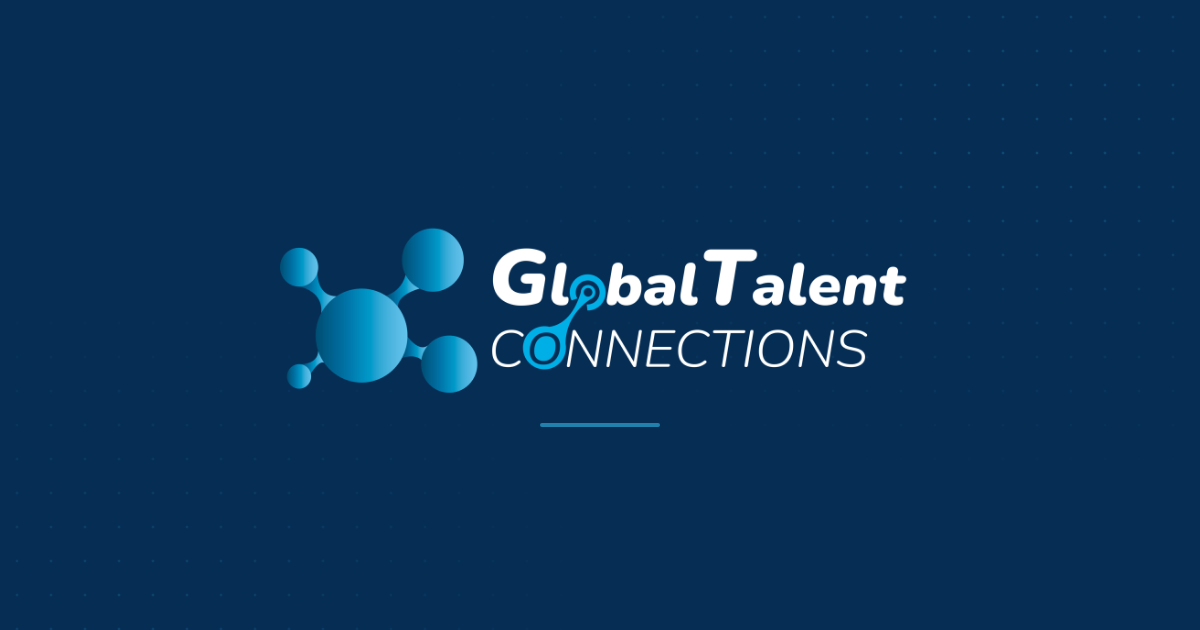
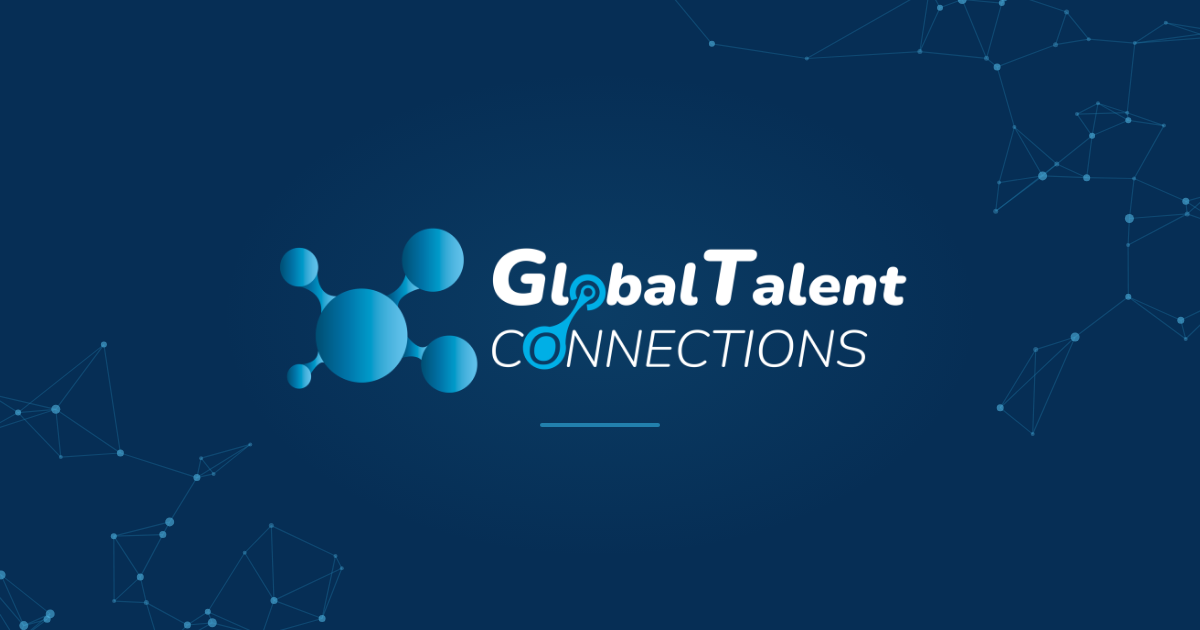
feat(web): share image gets a soft network detail in the background (#111)
Larisa (20-nov): «ponele algo en el fondito». Same logo on navy, plus a
soft celeste network in two corners (the style of the old image and of
the logo), clean center, no text. ?v=2 so cached previews refresh.

diff --git a/index.html b/index.html
@@ -38,7 +38,7 @@
   <meta property="og:url" content="https://www.globaltalent-connections.com/" />
   <meta property="og:title" content="Global Talent Connections | Servicio de soporte remoto gestionado para empresas" />
   <meta property="og:description" content="Servicios de soporte para empresas en 11 áreas, prestados por un equipo de profesionales en Latinoamérica y coordinados por GTC. Una factura mensual, calidad y continuidad garantizadas." />
-  <meta property="og:image" content="https://www.globaltalent-connections.com/og-gtc.jpg" />
+  <meta property="og:image" content="https://www.globaltalent-connections.com/og-gtc.jpg?v=2" />
   <meta property="og:image:width" content="1200" />
   <meta property="og:image:height" content="630" />
   <meta property="og:locale" content="es_ES" />
@@ -46,7 +46,7 @@
   <meta name="twitter:card" content="summary_large_image" />
   <meta name="twitter:title" content="Global Talent Connections | Servicio de soporte remoto gestionado para empresas" />
   <meta name="twitter:description" content="Servicios de soporte para empresas en 11 áreas, prestados por un equipo de profesionales en Latinoamérica y coordinados por GTC. Una factura mensual, calidad y continuidad garantizadas." />
-  <meta name="twitter:image" content="https://www.globaltalent-connections.com/og-gtc.jpg" />
+  <meta name="twitter:image" content="https://www.globaltalent-connections.com/og-gtc.jpg?v=2" />
 
   <!-- Verificación dominios -->
   <meta name="facebook-domain-verification" content="tpk04qimy8h8hfg7o9evjn3cdd5g4t" />

diff --git a/src/components/shared/SEO.tsx b/src/components/shared/SEO.tsx
@@ -22,7 +22,7 @@ const BASE_URL = 'https://www.globaltalent-connections.com'
 // Imagen al compartir un enlace: el logo sobre el azul de la marca, sin textos (20-nov-2026). La de antes decía
 // «Ahorra hasta 52 %» y «Asistentes Virtuales», que la guía de nomenclatura del 16-nov veta. Nombre nuevo para
 // que Slack, LinkedIn y WhatsApp no sigan mostrando la vieja guardada.
-const DEFAULT_IMAGE = `${BASE_URL}/og-gtc.jpg`
+const DEFAULT_IMAGE = `${BASE_URL}/og-gtc.jpg?v=2`
 
 const ORGANIZATION_SCHEMA = {
   '@context': 'https://schema.org',
@@ -50,7 +50,7 @@ const LOCAL_BUSINESS_SCHEMA = {
   name: 'Global Talent Connections',
   url: BASE_URL,
   logo: `${BASE_URL}/logo-gtc.png`,
-  image: `${BASE_URL}/og-gtc.png`,
+  image: `${BASE_URL}/og-gtc.png?v=2`,
   // Las cifras salen de src/data/cifras.ts, igual que en la home.
   description:
     `Servicio de soporte remoto gestionado para empresas españolas, con ${CIFRAS.profesionales.enFrase.es} trabajando en ${CIFRAS.empresas.enFrase.es}. Una factura mensual, calidad y continuidad garantizadas.`,
